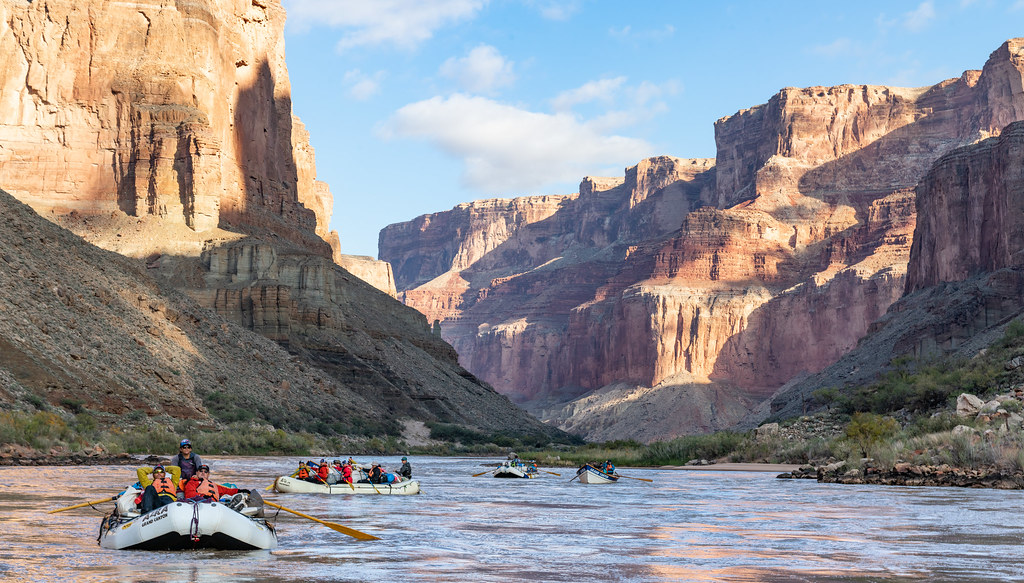
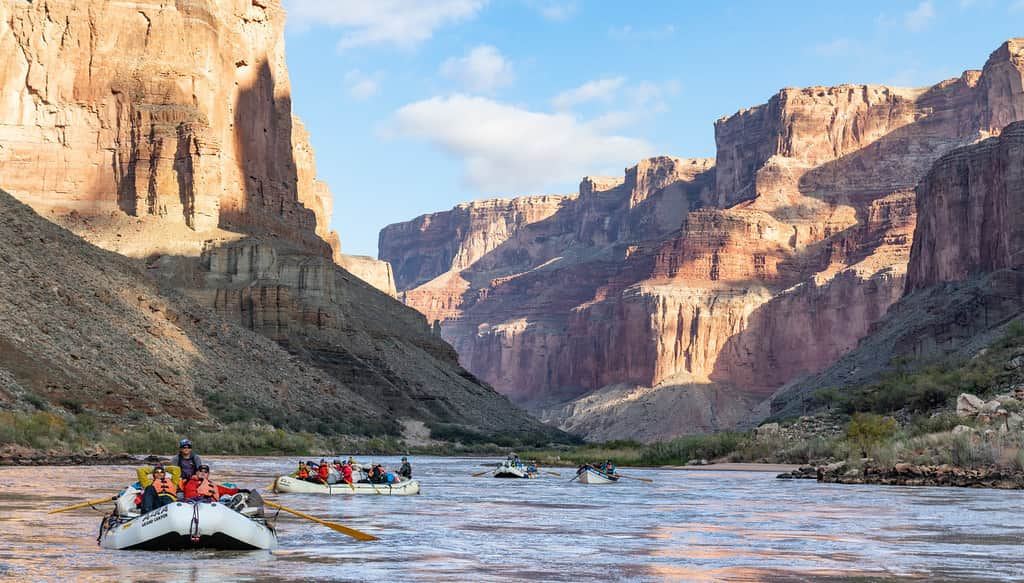
adding hover effect to button - images optimised

diff --git a/wwr/index.html b/wwr/index.html
@@ -25,7 +25,7 @@
   </header>
   <div id="hero">
       <div id="hero-box">
-          <img id="hero-img" src="images/hero.png" alt="People enjoying white water rafting">
+          <img id="hero-img" src="images/hero.jpg" alt="People enjoying white water rafting">
       </div>
       <section id="hero-msg">
           <h1 class="home-title">Have An Adventure</h1>

diff --git a/wwr/styles/style.css b/wwr/styles/style.css
@@ -318,6 +318,10 @@ form {
     font-size: 15px;
     color: #fff;
   }
+  .contact-us-button:hover {
+    background-color: #99dfe2;
+    color: #3a3017;
+  }
 
   #feedback {
     background-color: antiquewhite;
